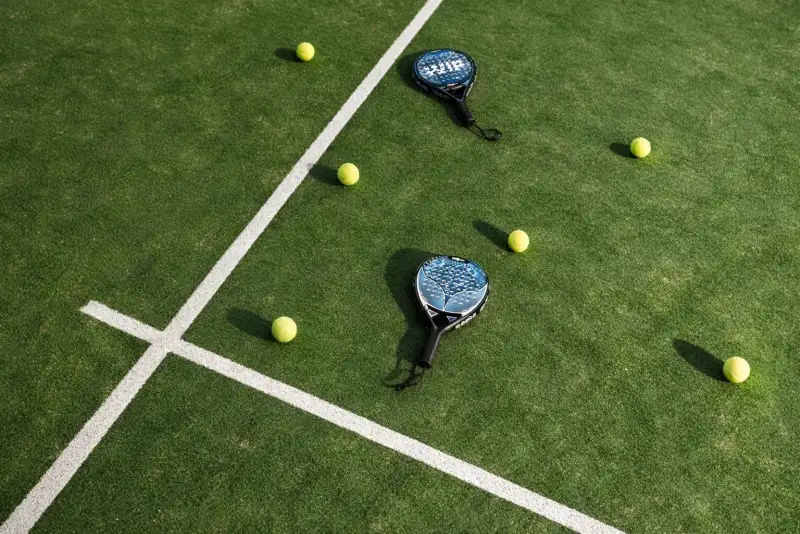
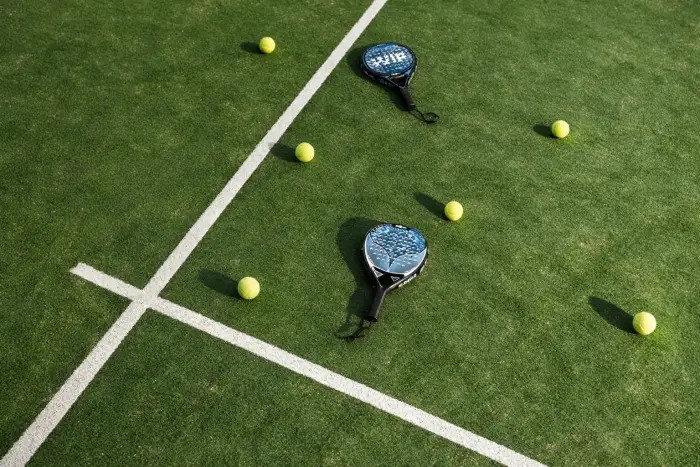
bloque de actualizacion de rendimiento 8, resize de nosotros_foto e inline de nav horizontal, bloque 2D definitivo cerrado

Changed region(s): [[0.51, 0.4797, 0.6, 0.5396], [0.54, 0.5696, 0.6, 0.5996], [0.54, 0.0899, 0.57, 0.1499]]

diff --git a/index.html b/index.html
@@ -210,6 +210,32 @@
 
     .nav.is-open { display: flex; }
 
+    /* Base de .nav-link/.nav-cta: sin esto, en desktop (donde .nav
+       está visible desde el primer render) los links del menú se ven
+       como texto plano sin estilo hasta que carga styles.css. */
+    .nav-link,
+    .nav-cta {
+      width: 100%;
+      padding: 1rem;
+      text-align: center;
+      font-size: 1.5rem;
+      letter-spacing: 0.05em;
+      transition: color var(--transition-fast), background-color var(--transition-fast);
+    }
+
+    .nav-link { color: var(--color-text); }
+
+    .nav-link:hover { color: var(--color-accent); }
+
+    .nav-cta {
+      margin-top: 0.5rem;
+      font-weight: 500;
+      background-color: var(--color-accent);
+      color: #0a0a0a;
+    }
+
+    .nav-cta:hover { background-color: var(--color-accent-dark); }
+
     .nav-toggle {
       display: flex;
       flex-direction: column;
@@ -233,6 +259,41 @@
     .nav-toggle.is-open .nav-toggle-bar:nth-child(1) { transform: translateY(7px) rotate(45deg); }
     .nav-toggle.is-open .nav-toggle-bar:nth-child(2) { opacity: 0; }
     .nav-toggle.is-open .nav-toggle-bar:nth-child(3) { transform: translateY(-7px) rotate(-45deg); }
+
+    /* Nav horizontal desktop: sin esto el menú queda oculto (no roto,
+       pero tampoco usable) hasta que carga styles.css en 1440px+. */
+    @media (min-width: 992px) {
+      .nav-toggle { display: none; }
+
+      .nav {
+        display: flex;
+        position: static;
+        flex-direction: row;
+        gap: 3rem;
+        background: none;
+        backdrop-filter: none;
+        -webkit-backdrop-filter: none;
+        border: none;
+        padding-block: 0;
+      }
+
+      .nav-link,
+      .nav-cta {
+        width: auto;
+        padding: 0.5rem 1.25rem;
+      }
+
+      .nav-cta {
+        margin-top: 0;
+        border-radius: var(--radius-sm);
+        animation: nav-pulse 1.5s ease-in-out 2s infinite;
+      }
+
+      @keyframes nav-pulse {
+        0%, 100% { box-shadow: 0 0 0 0 rgba(215, 252, 83, 0.78); }
+        50%      { box-shadow: 0 0 7px 8px rgba(0, 0, 0, 0.24); }
+      }
+    }
 
     .hero {
       position: relative;

diff --git a/CONTEXTO_CLAUDE.md b/CONTEXTO_CLAUDE.md
@@ -49,12 +49,14 @@ Landing HTML/CSS/JS vanilla, sin frameworks, sin build step.
   - **Bloque 2C** — Recompresión de las 5 imágenes del hero + 
   nosotrosfoto + corrección del preload a aereo-tenis.webp 
   (LCP real detectado por Lighthouse). PageSpeed 75→88. LCP 4.8s→3.1s.
+
+  - **Bloque 2D** — CSS crítico inline (hero + header + nav horizontal 
+  + tokens + dependencias: a/button/.container/.icon/.nav base) + 
+  diferido de styles.css + fix bug ARIA en deporte-detail 
+  (article→div) + recompresión final de nosotrosfoto (88.5→64.9 KiB). 
+  PageSpeed 88→91. LCP 3.1s→2.8s. SI 4.4s→2.7s. Nav con Agentes 1/2→2/2.
   
   ## ##Bloques pendientes (en orden)
-  - **Bloque 2D** — CSS crítico inline + diferido de styles.css + 
-  fix bug ARIA en deporte-detail (article→div, role="tabpanel" 
-  válido) + recompresión final de nosotrosfoto. PageSpeed 88→XX. 
-  FCP 2.6s→X.Xs. Navegación con Agentes 1/2→2/2.
   
 - **Bloque 4** — Rediseño sección Deportes: container proporcionalmente 
   más ancho en desktop, imagen full-width y más alta, contenido debajo 
